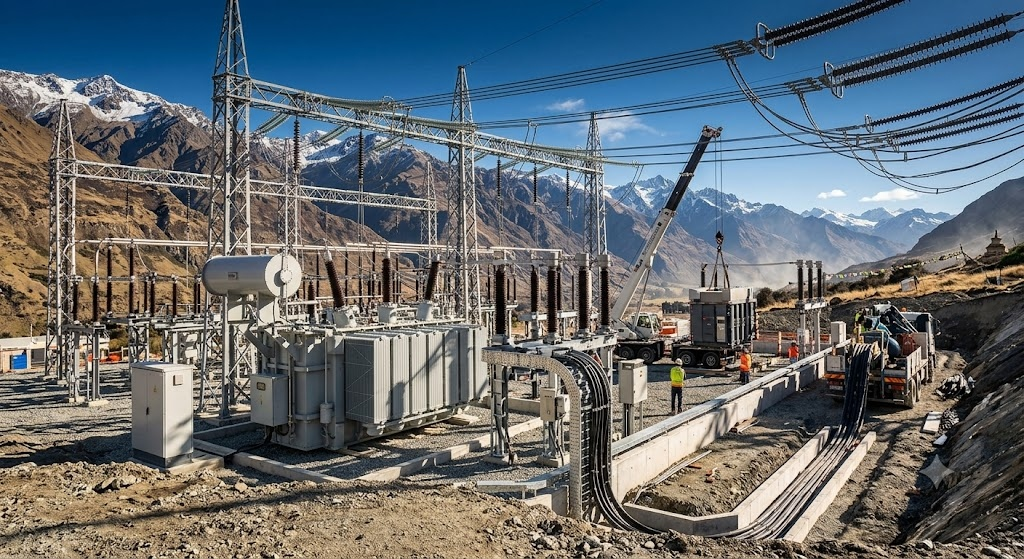
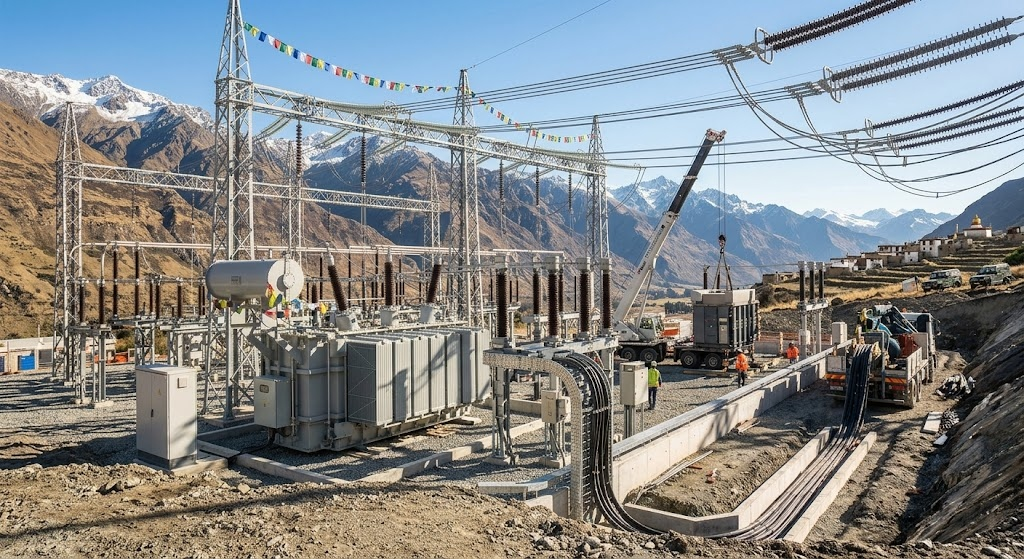
Update Tangste photo cleanly without badge/dark overlay, add Bhaderwah mountain project photo with past and upcoming scope, and replace Durbuk with Lamayuru

diff --git a/client/src/components/ProjectsShowcase.jsx b/client/src/components/ProjectsShowcase.jsx
@@ -1,6 +1,6 @@
 import React from 'react';
 import { caseStudies } from '../data/projectsData';
-import { MapPin, CheckCircle, ArrowRight, ShieldCheck } from 'lucide-react';
+import { MapPin, CheckCircle, ArrowRight } from 'lucide-react';
 
 export default function ProjectsShowcase({ onNavigate }) {
   return (
@@ -66,14 +66,15 @@ export default function ProjectsShowcase({ onNavigate }) {
                 e.currentTarget.style.boxShadow = '0 12px 30px rgba(0, 0, 0, 0.2)';
               }}
             >
-              {/* Optional On-Site Project Photo */}
+              {/* Clean On-Site Project Photo */}
               {project.image && (
                 <div style={{
                   position: 'relative',
                   width: '100%',
-                  height: '230px',
+                  height: '235px',
                   overflow: 'hidden',
-                  background: '#07111e'
+                  background: '#07111e',
+                  borderBottom: '1px solid rgba(255, 255, 255, 0.08)'
                 }}>
                   <img
                     src={project.image}
@@ -88,31 +89,6 @@ export default function ProjectsShowcase({ onNavigate }) {
                     onMouseEnter={(e) => e.currentTarget.style.transform = 'scale(1.04)'}
                     onMouseLeave={(e) => e.currentTarget.style.transform = 'scale(1)'}
                   />
-                  <div style={{
-                    position: 'absolute',
-                    inset: 0,
-                    background: 'linear-gradient(to top, rgba(16, 34, 56, 0.95) 0%, rgba(16, 34, 56, 0.2) 60%, transparent 100%)'
-                  }} />
-                  <div style={{
-                    position: 'absolute',
-                    top: '16px',
-                    left: '16px',
-                    display: 'inline-flex',
-                    alignItems: 'center',
-                    gap: '6px',
-                    padding: '5px 12px',
-                    borderRadius: 'var(--radius-full)',
-                    background: 'rgba(7, 17, 30, 0.85)',
-                    border: '1px solid var(--gold-primary)',
-                    color: 'var(--gold-primary)',
-                    fontSize: '0.75rem',
-                    fontWeight: 800,
-                    textTransform: 'uppercase',
-                    letterSpacing: '0.05em',
-                    backdropFilter: 'blur(6px)'
-                  }}>
-                    <ShieldCheck size={14} /> Actual Field Installation
-                  </div>
                 </div>
               )}
 

diff --git a/client/src/data/projectsData.js b/client/src/data/projectsData.js
@@ -18,12 +18,13 @@ export const caseStudies = [
   },
   {
     id: 'cs-02',
-    title: 'High-Altitude Cantonment Electrification & Underground Cabling',
-    location: 'Srinagar & Kashmir Valley Strategic Bases',
-    sector: 'High Altitude Defense',
-    scope: '11kV XLPE Armored Trench Cabling, Compact Substations & Sub-Zero DG Units',
-    summary: 'Execution of winter-grade resilient electrical power networks capable of operating through extreme snowpack and sub-zero temperatures down to -25°C.',
-    highlight: 'Completed in harsh mountainous terrain under stringent defense security protocols.'
+    title: 'Bhaderwah Mountain Grid Electrification & Advanced Switchgear',
+    location: 'Bhaderwah Valley, Jammu & Kashmir',
+    sector: 'Mountain Electrification & Power Grid',
+    image: '/images/projects/bhaderwah_substation.jpg',
+    scope: 'Outdoor Distribution Kiosks, ABB Control Switchgear, Underground Trench Cabling & High-Altitude Transmission Integration',
+    summary: 'Successfully executed high-altitude valley electrification and outdoor switchboard installation in Bhaderwah, establishing resilient power distribution across mountainous terrain with ongoing and upcoming grid expansion projects to further strengthen regional capacity.',
+    highlight: 'Field-proven mountain terrain reliability with ongoing modern grid integration phases.'
   },
   {
     id: 'cs-03',
@@ -49,7 +50,7 @@ export const regionalPresence = [
   { city: 'Jammu Central', role: 'Headquarters & Regional Logistics Depot', coverage: 'Greater Jammu, Kathua, Samba Industrial Zone' },
   { city: 'Udhampur', role: 'Northern Command Defense Project Division', coverage: 'Command HQs, Air Force Stations, Rail Corridors' },
   { city: 'Kashmir Valley / Srinagar', role: 'High-Altitude Project & Rapid Response Base', coverage: 'Srinagar, Baramulla, Anantnag, Kupwara' },
-  { city: 'Strategic Hill Sectors', role: 'Turnkey Substation & Remote Line Installation', coverage: 'Leh, Durbuk, Tangste, Chenab Valley' }
+  { city: 'Strategic Hill Sectors', role: 'Turnkey Substation & Remote Line Installation', coverage: 'Leh, Lamayuru, Tangste, Chenab Valley' }
 ];
 
 export const turnkeyServices = [

diff --git a/client/src/components/AboutCompany.jsx b/client/src/components/AboutCompany.jsx
@@ -42,7 +42,7 @@ export default function AboutCompany() {
               color: '#334155',
               marginBottom: '28px'
             }}>
-              Founded in <strong>1989</strong>, our company has grown into a cornerstone engineering partner in Northern India and strategic frontier sectors. Under visionary technical leadership, we have evolved from executing foundational power distribution networks to delivering turnkey 33kV/11kV substations, high-altitude resilient micro-grids in <strong>Leh, Durbuk, and Tangste</strong>, and large-scale industrial electrification. Over the decades, we have forged enduring partnerships with prestigious agencies including the <strong>Military Engineer Services (MES), Northern Command, CPWD, and State Power Corporations</strong>, consistently delivering exceptional quality that meets both client expectations and rigorous industry standards.
+              Founded in <strong>1989</strong>, our company has grown into a cornerstone engineering partner in Northern India and strategic frontier sectors. Under visionary technical leadership, we have evolved from executing foundational power distribution networks to delivering turnkey 33kV/11kV substations, high-altitude resilient micro-grids in <strong>Leh, Lamayuru, and Tangste</strong>, and large-scale industrial electrification. Over the decades, we have forged enduring partnerships with prestigious agencies including the <strong>Military Engineer Services (MES), Northern Command, CPWD, and State Power Corporations</strong>, consistently delivering exceptional quality that meets both client expectations and rigorous industry standards.
             </p>
 
             <div style={{

diff --git a/client/src/components/Hero.jsx b/client/src/components/Hero.jsx
@@ -116,7 +116,7 @@ export default function Hero({ onOpenRFQ, onNavigate }) {
             Founded in 1989, <strong style={{ color: '#ffffff' }}>Proach Associates Builders & Engineers</strong> is a leading 
             integrated electrical engineering, equipment supply, and turnkey EPC contractor. With over three decades of proven 
             execution, our portfolio encompasses <strong style={{ color: '#ffffff' }}>Air Force stations, high-voltage substations, military cantonments, radar installations, and strategic transmission grids</strong> across 
-            <strong style={{ color: 'var(--gold-primary)' }}> Jammu & Kashmir, Leh, Durbuk, Tangste,</strong> and vital frontier sectors.
+            <strong style={{ color: 'var(--gold-primary)' }}> Jammu & Kashmir, Leh, Lamayuru, Tangste,</strong> and vital frontier sectors.
           </p>
 
           {/* CTA Buttons with Conversion Shimmer Effect */}
